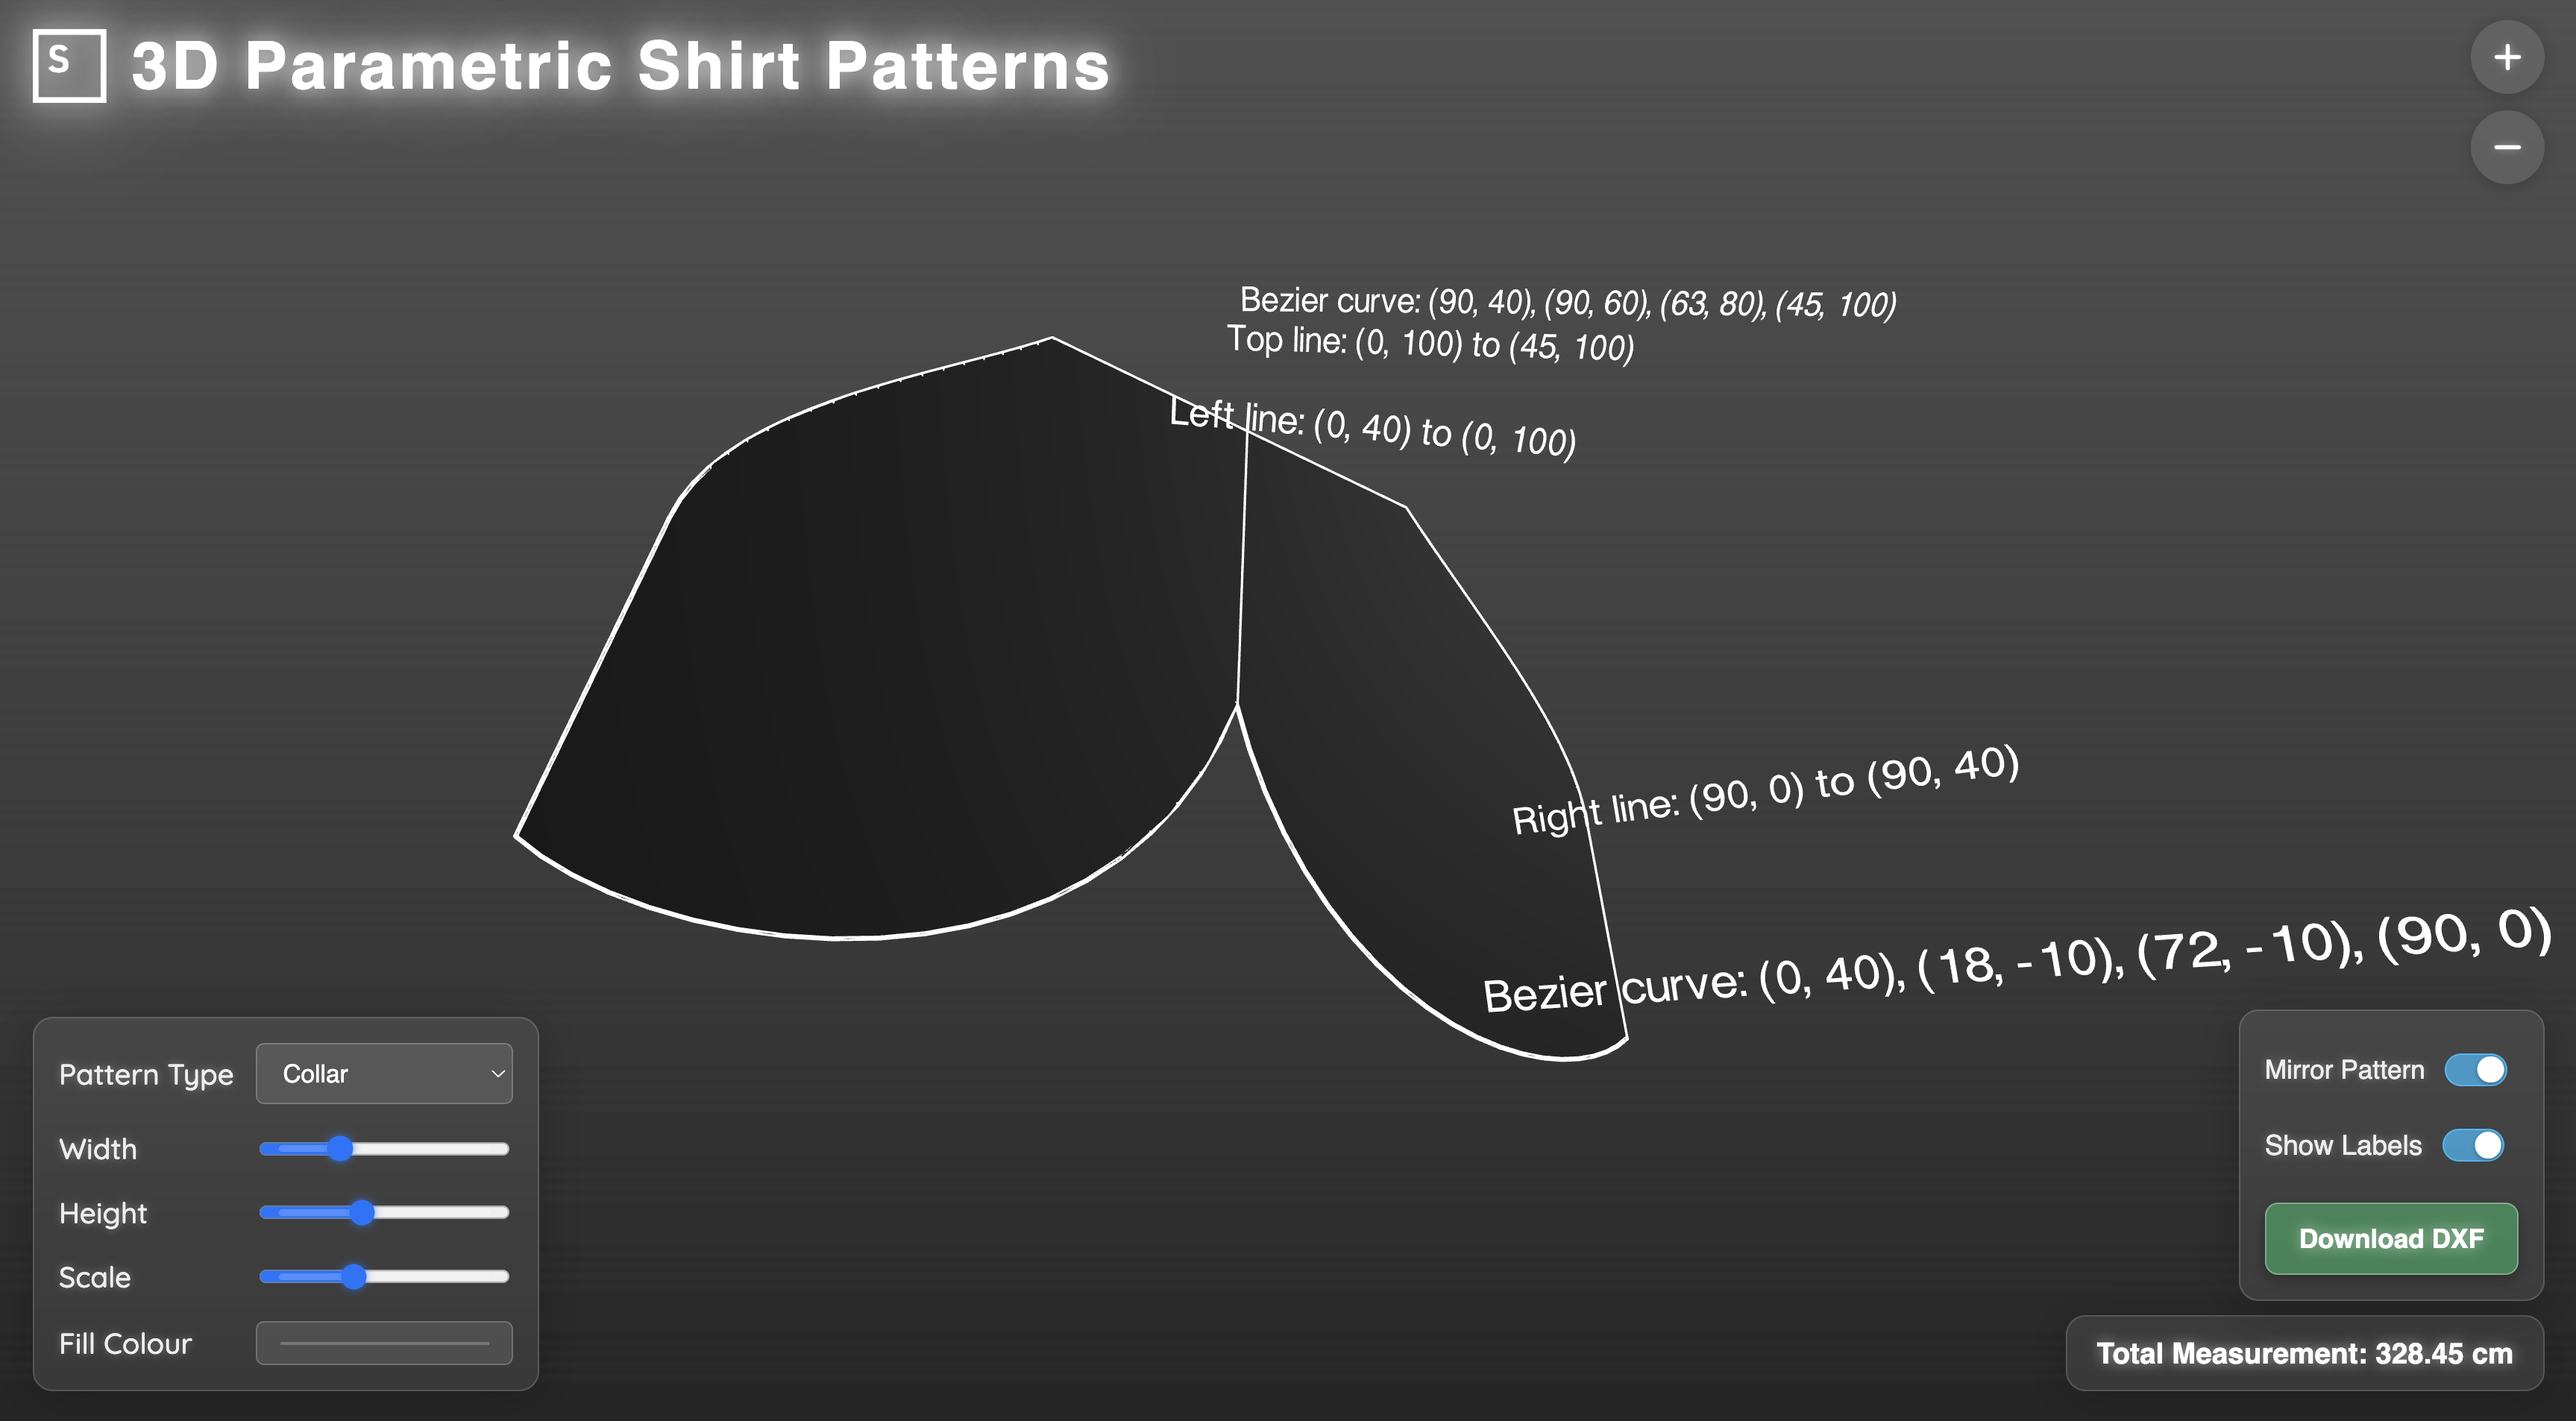
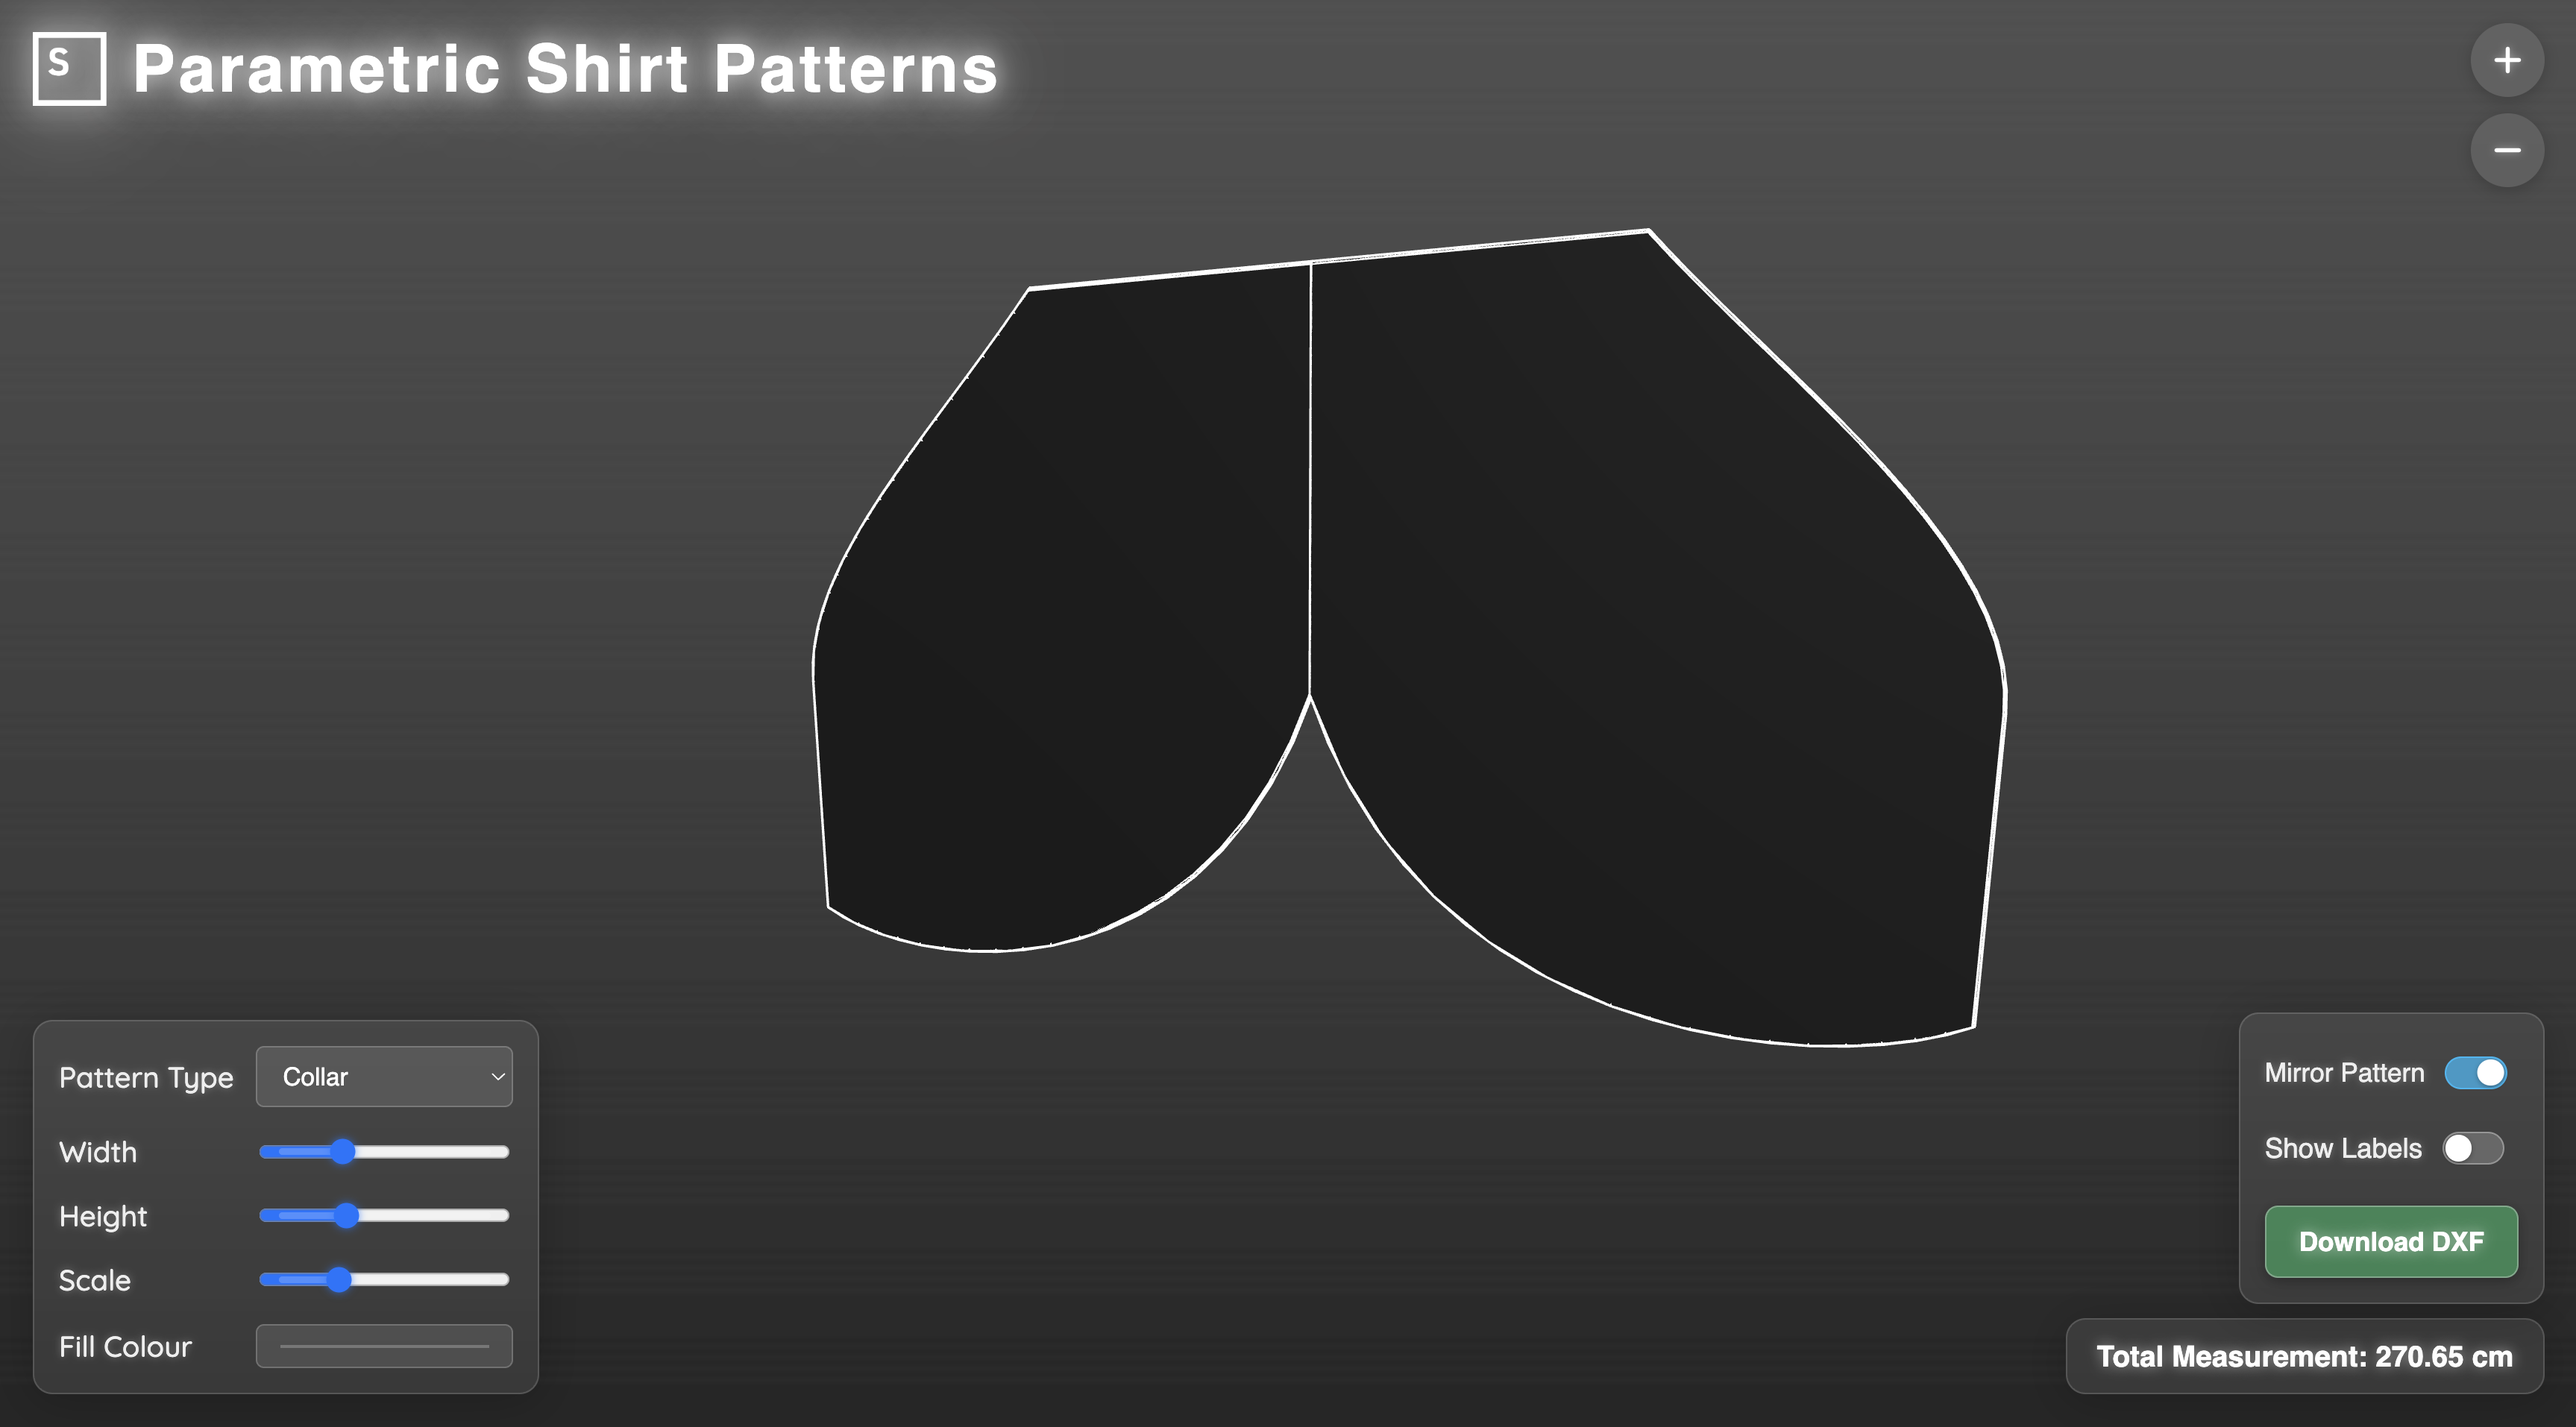
Updates

diff --git a/templates/3d.html b/templates/3d.html
@@ -3,7 +3,7 @@
 <head>
   <meta charset="UTF-8" />
   <meta name="viewport" content="width=device-width, initial-scale=1.0">
-  <title>3D Shirt Patterns</title>
+  <title>Shirt Patterns</title>
   <link rel="stylesheet" href="https://cdnjs.cloudflare.com/ajax/libs/font-awesome/6.0.0/css/all.min.css" integrity="sha512-9usAa10IRO0HhonpyAIVpjrylPvoDwiPUiKdWk5t3PyolY1cOd4DSE0Ga+ri4AuTroPR5aQvXU9xC6qOPnzFeg==" crossorigin="anonymous" referrerpolicy="no-referrer" />
   <link rel="stylesheet" href="{{ url_for('static', filename='style.css') }}">
   <link href="https://fonts.googleapis.com/css2?family=Quicksand:wght@300;400;500;600;700&display=swap" rel="stylesheet">
@@ -19,7 +19,7 @@
 <body>
   <header>
     <img id="header-logo" src="{{ url_for('static', filename='SLogo.png') }}" alt="SA Logo">
-    3D Parametric Shirt Patterns
+    Parametric Shirt Patterns
   </header>
   <canvas id="canvas"></canvas>
   <div class="controls">

diff --git a/Readme.md b/Readme.md
@@ -1,4 +1,4 @@
-A simple Flask-based webapp for generating and visualizing 3D parametric garment patterns that are formed using lines and Bézier curves. I created this mini-project as a technical case study for Six Atomic.
+A simple Flask-based webapp for generating and visualizing parametric garment patterns that are formed using lines and cubic Bézier curves. I created this mini-project as a technical case study for Six Atomic.
 
 To try it out locally in your browser, run `python3 app.py` in your terminal after cloning and navigation. Currently, it includes two pre-defined shirt-oriented patterns to play around with:
 
